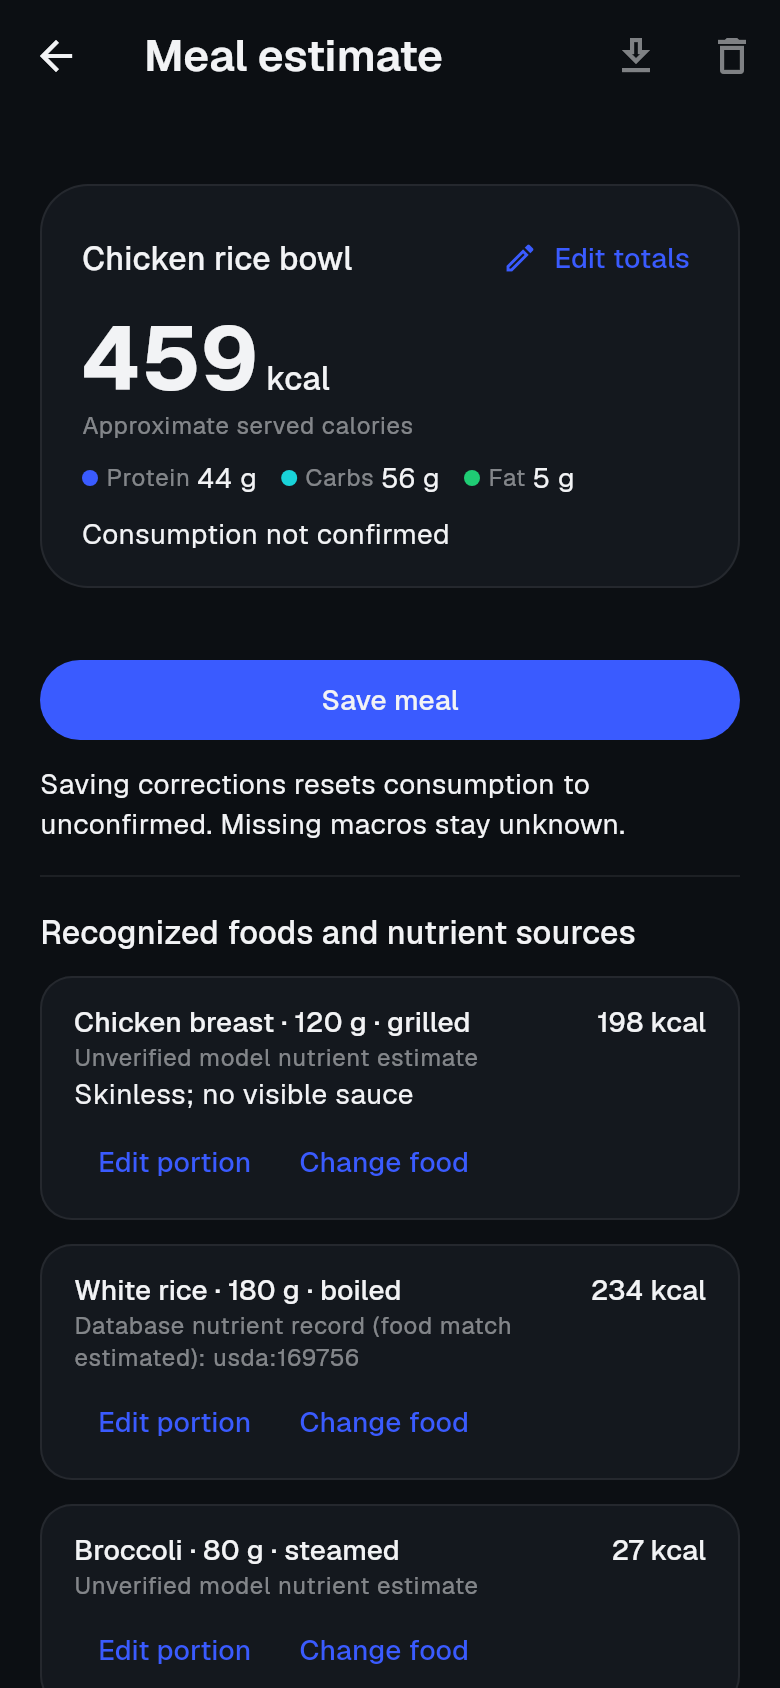
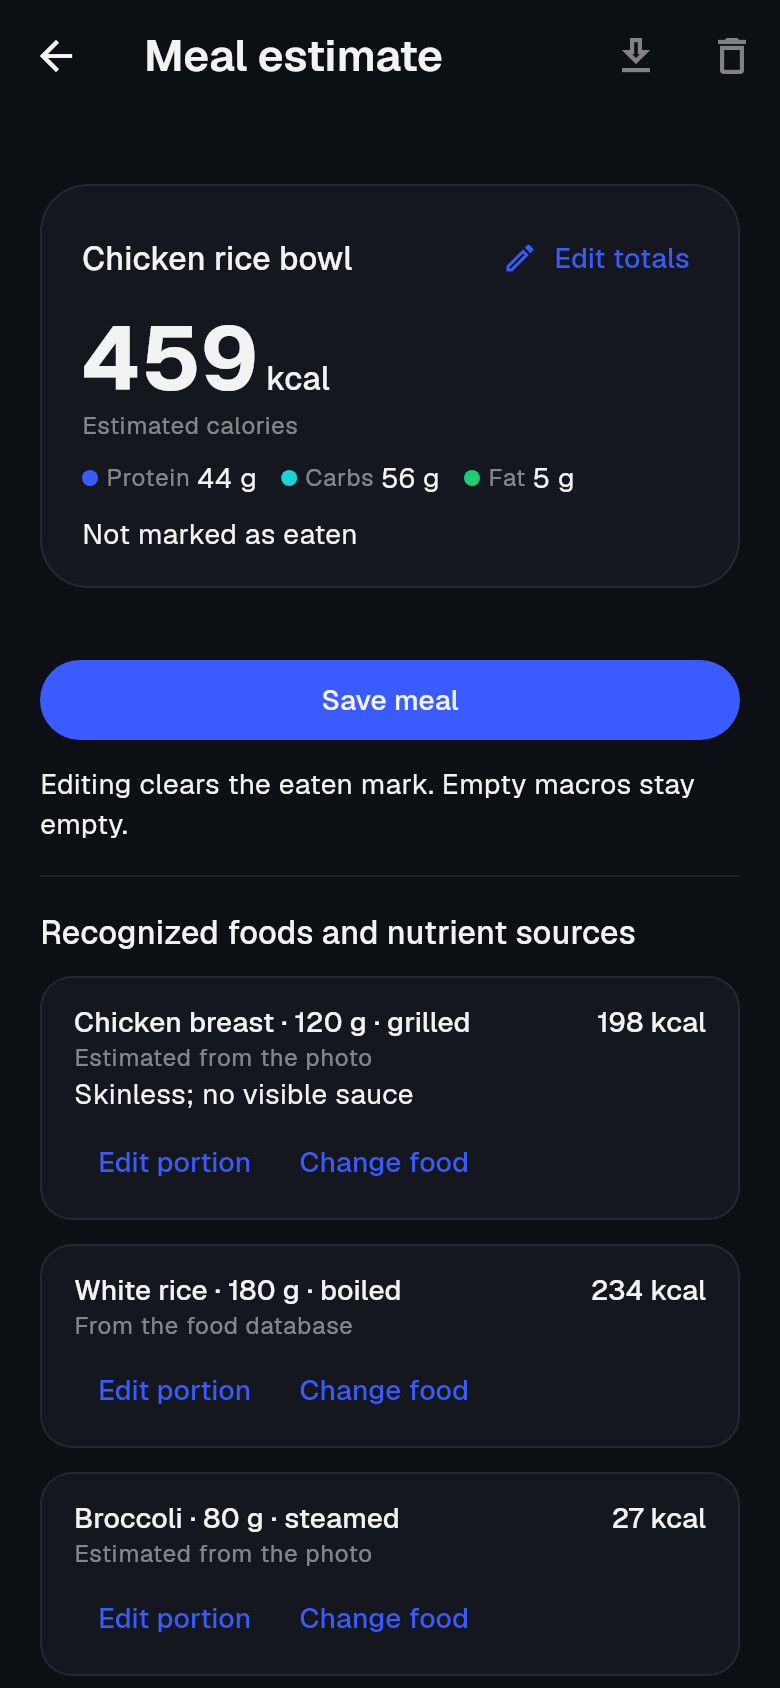
Record the plain wording as done in the Tier1 handover because the owner approved it

diff --git a/docs/UI_REVIEW_AND_HANDOVER_2026-11-14.md b/docs/UI_REVIEW_AND_HANDOVER_2026-11-14.md
@@ -42,12 +42,11 @@ colors, no daily total, no ring, and the app bar says "AppName".
 
 **Status of the list below (update after every fix):** 2, 3, 4, 7 DONE in worktree `356aa55` + `80afa21` (Gemini review asked for delete to stay visible at every revision; applied. Export alone waits for the first save.) (plus the cause of 7:
 the dark theme's seeded `onPrimary` was dark navy; both schemes now state it in `lib/core/theme/app_theme.dart`).
-1 is DONE in `6ac0c58`: the owner named the app **Ravlo** on 2026-11-15 (display name only: constant, Android label, iOS bundle names; package ids and the repo name stay `calorix`). 5 and 8 DONE in `48d9424` (day headers with served totals, time and macro dots per row, a today line on home; test added). 6 (plain wording) is NOT DONE: tests assert the current strings, and the served/consumed vocabulary looks deliberate, so ask the owner before rewording. Lesson from 5: never call `toLocal()` on a clock value in Tier1; test clocks hand out `TZDateTime` and it throws without the timezone database (use `_localTime`). Grok's free limit ran
+1 is DONE in `6ac0c58`: the owner named the app **Ravlo** on 2026-11-15 (display name only: constant, Android label, iOS bundle names; package ids and the repo name stay `calorix`). 5 and 8 DONE in `48d9424` (day headers with served totals, time and macro dots per row, a today line on home; test added). 6 (plain wording) is DONE in `7115ccf` (owner said yes on 2026-11-15): "Estimated calories", "Not marked as eaten", "Eaten · N kcal", "Estimated from the photo", "From the food database" (the record id is no longer shown), field label "Calories (kcal)", button "Clear eaten mark". The home and history totals still say "kcal served". Lesson from 5: never call `toLocal()` on a clock value in Tier1; test clocks hand out `TZDateTime` and it throws without the timezone database (use `_localTime`). Grok's free limit ran
 out on its first task on 2026-11-15, so the main host made these edits directly, as the owner allowed.
 
 **Photo estimate screen (the core result, rendered as `06`–`08`):** DONE in `f7ecd0c`: recognized foods are cards,
-the open question is an amber block. Still weak there, in order: (a) DONE in `c8a60f4` (`Tier1Meal.componentKcal`, tested to add up to the served total); (b) the raw
-record id (`usda:169756`) is shown to the user; (c) "Unverified model nutrient estimate" is internal wording;
+the open question is an amber block. Still weak there, in order: (a) DONE in `c8a60f4` (`Tier1Meal.componentKcal`, tested to add up to the served total); (b) and (c) DONE in `7115ccf` (plain source lines, no record id);
 (d) the totals at the top are five form fields, not a summary (kcal large, macros with their colour dots) with
 an Edit button. (d) is DONE in `bff13cb` (owner said yes): a summary card (name, large kcal, labelled macro dots, status) with `Edit totals` revealing the form; manual entry with no estimate still opens on the form. Tests that type into the totals tap `Edit totals` first.
 
